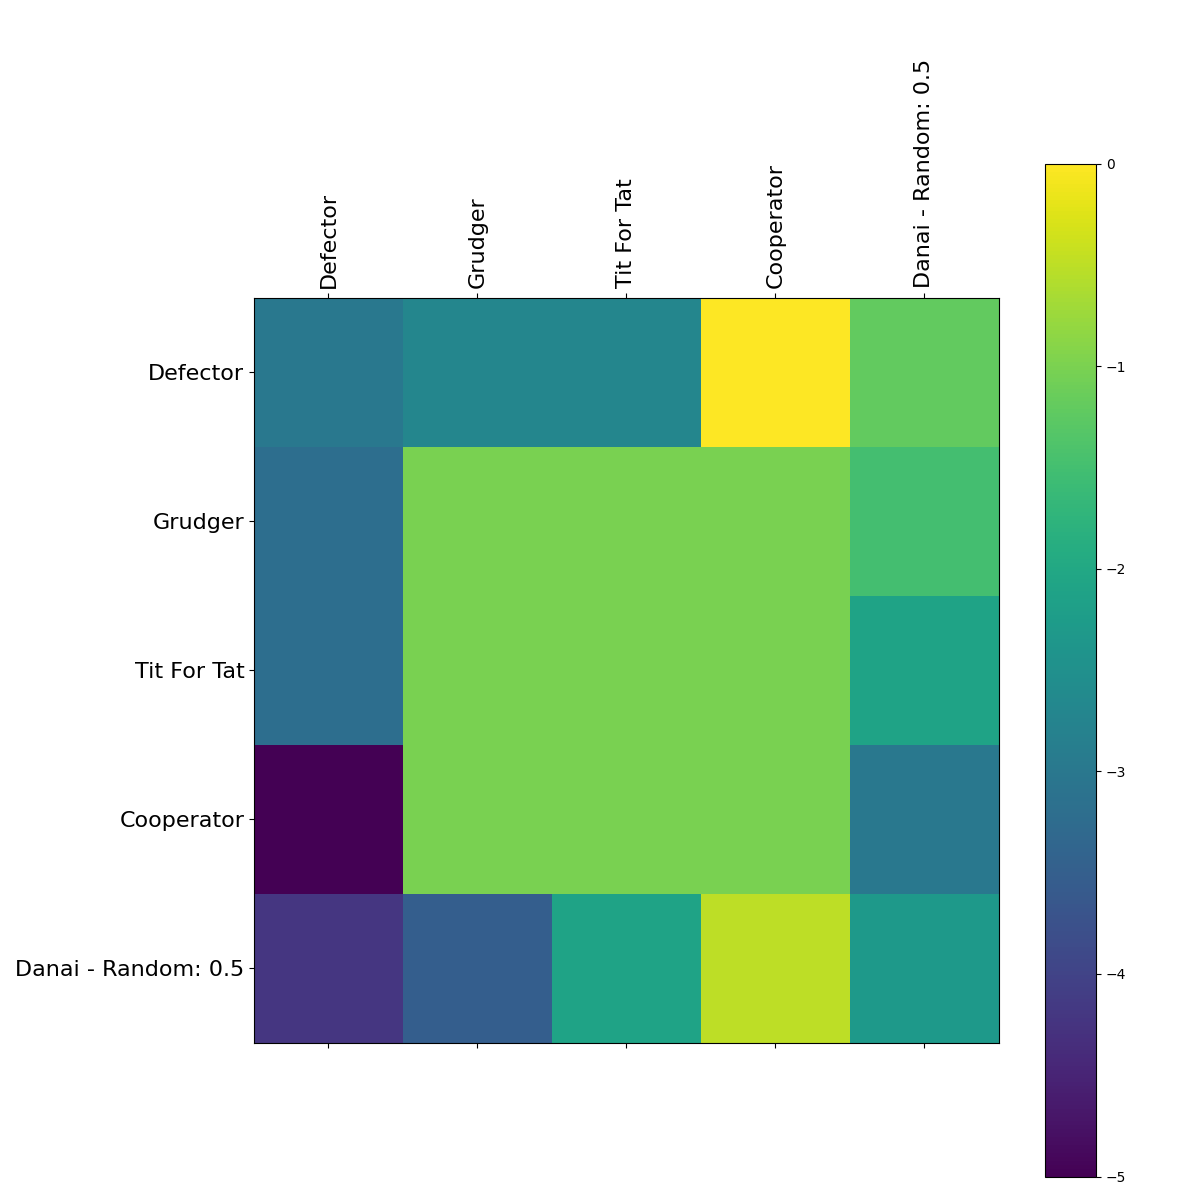
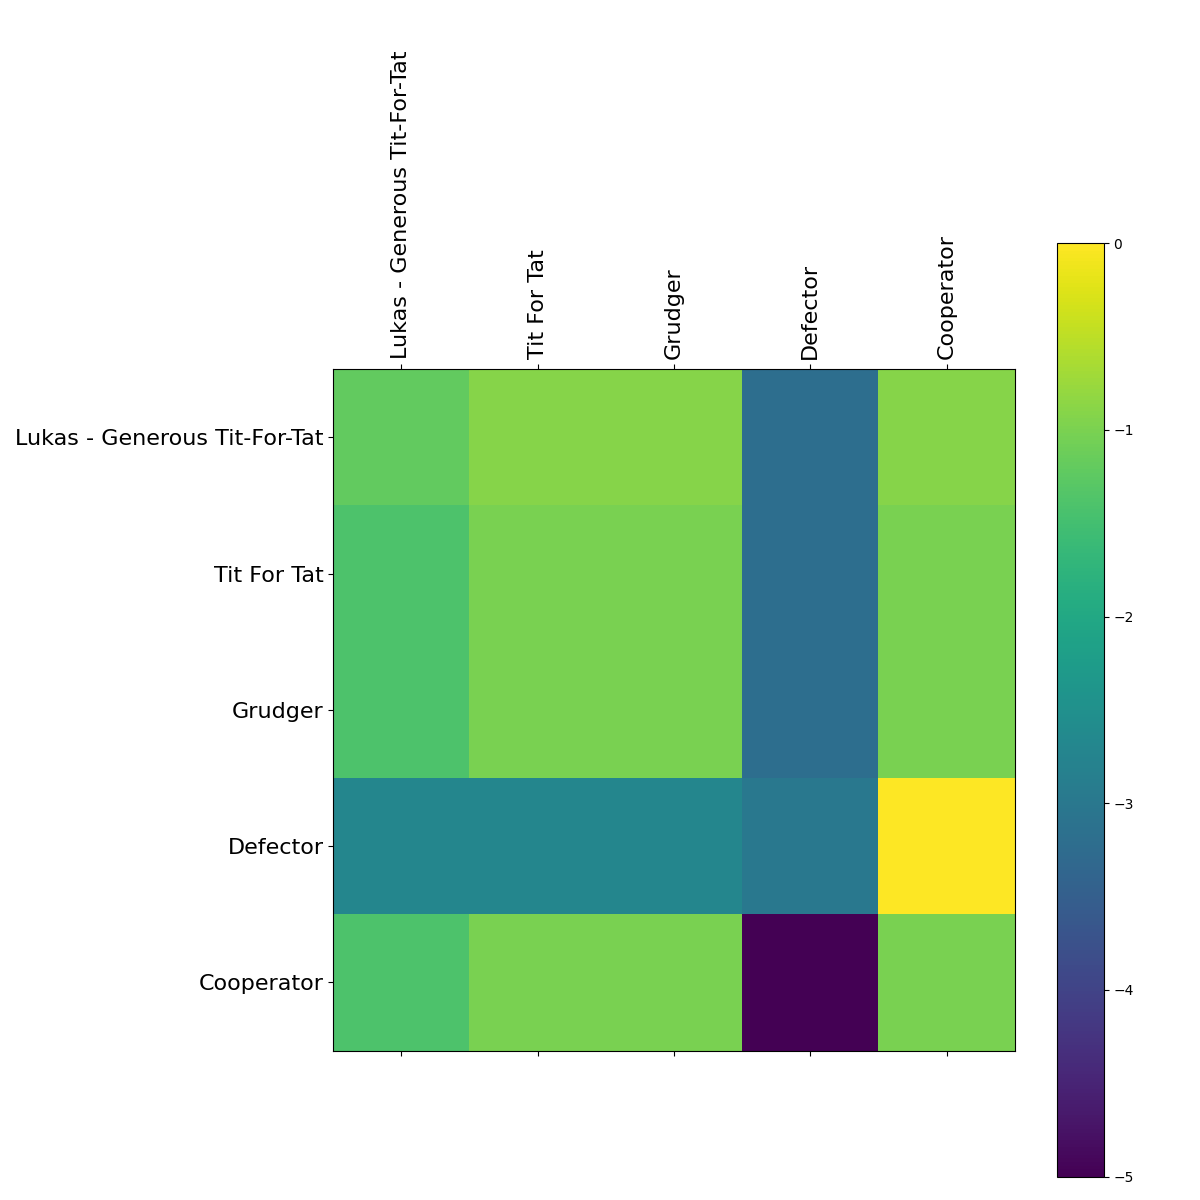
player lukas added

diff --git a/was-tournament/wasstrategies/lukas_strategy.py b/was-tournament/wasstrategies/lukas_strategy.py
@@ -1,0 +1,76 @@
+"""Code retrieved from Axelrod rand.py strategy"""
+
+from axelrod.action import Action
+from axelrod.player import Player
+import random
+
+C, D = Action.C, Action.D
+
+
+class Lukas(Player):
+    """A player who randomly chooses between cooperating and defecting.
+    This strategy came 15th in Axelrod's original tournament.
+    Names:
+    - Random: [Axelrod1980]_
+    - Lunatic: [Tzafestas2000]_
+    """
+
+    name = "Lukas - Generous Tit-For-Tat"
+    classifier = {
+        "memory_depth": 0,   # Memory-one Four-Vector = (p, p, p, p)
+        "stochastic": True,
+        "long_run_time": False,
+        "inspects_source": False,
+        "manipulates_source": False,
+        "manipulates_state": False,
+    }
+
+    def __init__(self) -> None:
+        """
+        Parameters
+        ----------
+        p, float
+            The probability to cooperate
+        Special Cases
+        -------------
+        Random(0) is equivalent to Defector
+        Random(1) is equivalent to Cooperator
+        """
+        super().__init__()
+        self.num_rounds_defect = 2
+        self.defecting_rounds = 0
+        self.round_number = 0
+
+
+    def strategy(self, opponent: Player) -> Action:
+        """Actual strategy definition that determines player's action."""
+        self.round_number += 1
+
+        if(self.round_number == 10):
+            return self.defect(opponent=opponent)
+        
+        if len(opponent.history) == 0:
+            return self.cooperate(opponent=opponent)
+        
+        if opponent.history[-1] == D:
+            self.defecting_rounds = self.num_rounds_defect
+            return self.defect(opponent=opponent)
+        
+        if self.defecting_rounds > 0:
+            self.defecting_rounds -= 1
+            random_number = random.randint(0, 1)
+            if random_number == 1:
+                return self.cooperate(opponent=opponent)
+            else:
+                return self.defect(opponent=opponent)
+
+        return self.cooperate(opponent=opponent)
+        
+
+    @classmethod
+    def cooperate(cls, opponent: Player) -> Action:
+        return C
+
+    @classmethod
+    def defect(cls, opponent: Player) -> Action:
+        return D

diff --git a/was-tournament/was_tournament.py b/was-tournament/was_tournament.py
@@ -1,10 +1,10 @@
 import axelrod as axl
-from wasstrategies import danai_strategy as pl0
+from wasstrategies import lukas_strategy as pl0
 
 """Run an Axelrod Tournament (https://axelrod.readthedocs.io/en/stable/tutorials/new_to_game_theory_and_or_python/tournament.html)"""
 # Create the strategy players
 strategies = [axl.Cooperator(), axl.Defector(),
-axl.TitForTat(), axl.Grudger(), pl0.Danai()]
+axl.TitForTat(), axl.Grudger(), pl0.Lukas()]
 
 # Print the startegy players
 print(f"Available strategies: {strategies}")
